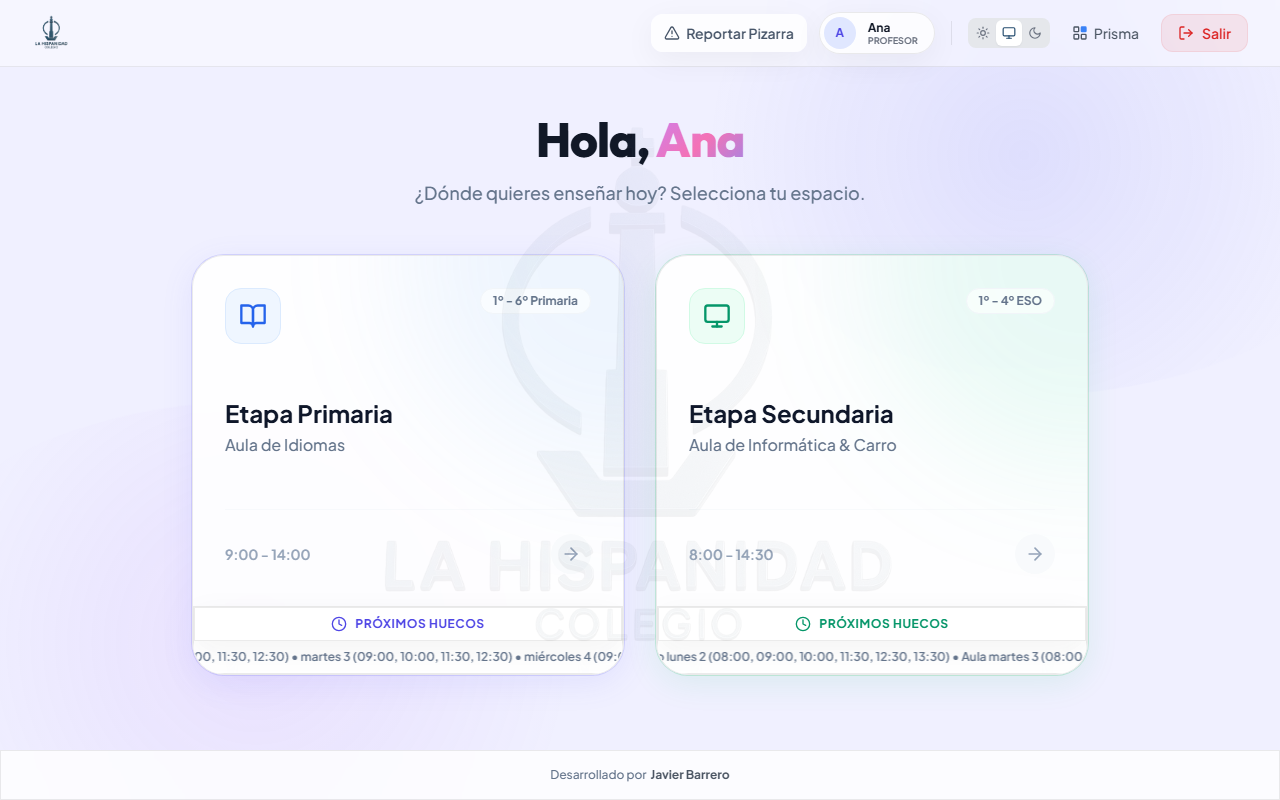
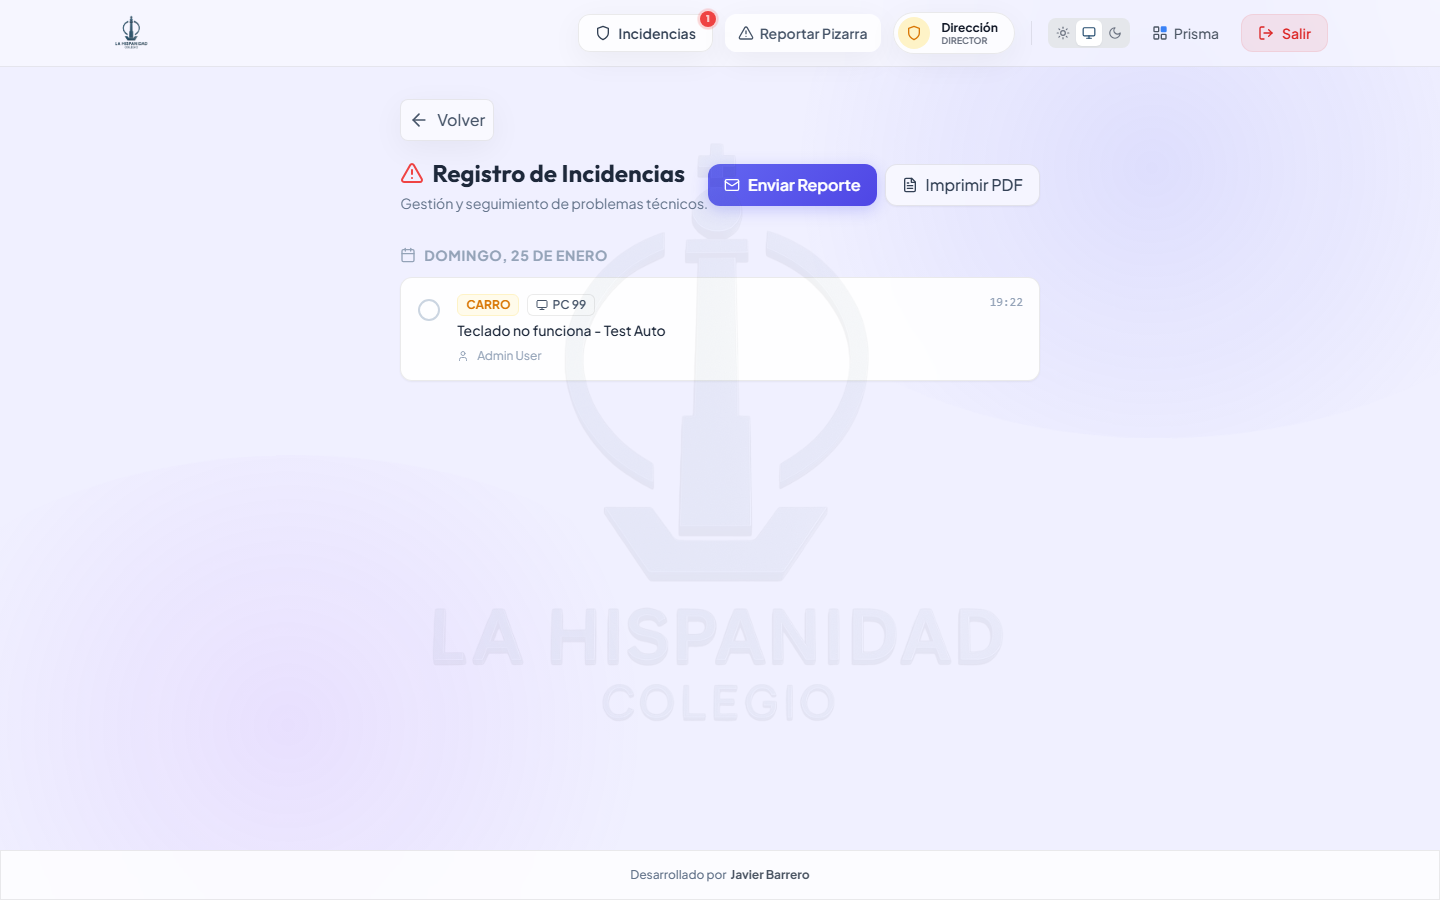
feat(theme): leer cookie HISPA_THEME de PrismaEdu con override manual
- ThemeContext lee la cookie HISPA_THEME al init si no hay flag manual
- Re-sincroniza al enfocar la pestaña (focus/visibilitychange)
- Expone clearThemeOverride(); se llama en login y SSO para volver a seguir PrismaEdu

diff --git a/src/context/ThemeContext.tsx b/src/context/ThemeContext.tsx
@@ -11,23 +11,37 @@ interface ThemeProviderProps {
 interface ThemeProviderState {
     theme: Theme;
     setTheme: (theme: Theme) => void;
+    clearThemeOverride: () => void;
 }
 
 const initialState: ThemeProviderState = {
     theme: 'system',
     setTheme: () => null,
+    clearThemeOverride: () => null,
 };
 
 const ThemeProviderContext = createContext<ThemeProviderState>(initialState);
+
+const MANUAL_FLAG = 'aulas_theme_manual';
+
+function getSharedTheme(): Theme | null {
+    const m = document.cookie.match(/(?:^|;\s*)HISPA_THEME=([^;]+)/);
+    const v = m?.[1];
+    return (v === 'light' || v === 'dark' || v === 'system') ? v as Theme : null;
+}
 
 export function ThemeProvider({
     children,
     defaultTheme = 'system',
     storageKey = 'vite-ui-theme',
 }: ThemeProviderProps) {
-    const [theme, setTheme] = useState<Theme>(
-        () => (localStorage.getItem(storageKey) as Theme) || defaultTheme
-    );
+    const [theme, setThemeState] = useState<Theme>(() => {
+        if (!localStorage.getItem(MANUAL_FLAG)) {
+            const cookieTheme = getSharedTheme();
+            if (cookieTheme) return cookieTheme;
+        }
+        return (localStorage.getItem(storageKey) as Theme) || defaultTheme;
+    });
 
     useEffect(() => {
         const root = window.document.documentElement;
@@ -47,12 +61,39 @@ export function ThemeProvider({
         root.classList.add(theme);
     }, [theme]);
 
+    // Re-sync from PrismaEdu cookie when tab regains focus (if no manual override)
+    useEffect(() => {
+        const syncFromCookie = () => {
+            if (localStorage.getItem(MANUAL_FLAG)) return;
+            const cookieTheme = getSharedTheme();
+            if (cookieTheme) setThemeState(cookieTheme);
+        };
+        const onVisibility = () => { if (document.visibilityState === 'visible') syncFromCookie(); };
+        window.addEventListener('focus', syncFromCookie);
+        document.addEventListener('visibilitychange', onVisibility);
+        return () => {
+            window.removeEventListener('focus', syncFromCookie);
+            document.removeEventListener('visibilitychange', onVisibility);
+        };
+    }, []);
+
+    const clearThemeOverride = () => {
+        localStorage.removeItem(MANUAL_FLAG);
+        const cookieTheme = getSharedTheme();
+        if (cookieTheme) {
+            localStorage.setItem(storageKey, cookieTheme);
+            setThemeState(cookieTheme);
+        }
+    };
+
     const value = {
         theme,
         setTheme: (theme: Theme) => {
+            localStorage.setItem(MANUAL_FLAG, '1');
             localStorage.setItem(storageKey, theme);
-            setTheme(theme);
+            setThemeState(theme);
         },
+        clearThemeOverride,
     };
 
     return (

diff --git a/App.tsx b/App.tsx
@@ -34,6 +34,7 @@ const App: React.FC = () => {
         if (res.ok) {
           const data = await res.json();
           if (data.success && data.user) {
+            localStorage.removeItem('aulas_theme_manual');
             setUser(data.user);
             localStorage.setItem('hispanidad_user', JSON.stringify(data.user));
             return;
@@ -60,6 +61,7 @@ const App: React.FC = () => {
 
   const handleLogin = (newUser: User) => {
     if (!newUser) return; // Protección extra
+    localStorage.removeItem('aulas_theme_manual');
     setUser(newUser);
     // Aseguramos que nunca guardamos "undefined" como string
     localStorage.setItem('hispanidad_user', JSON.stringify(newUser));
